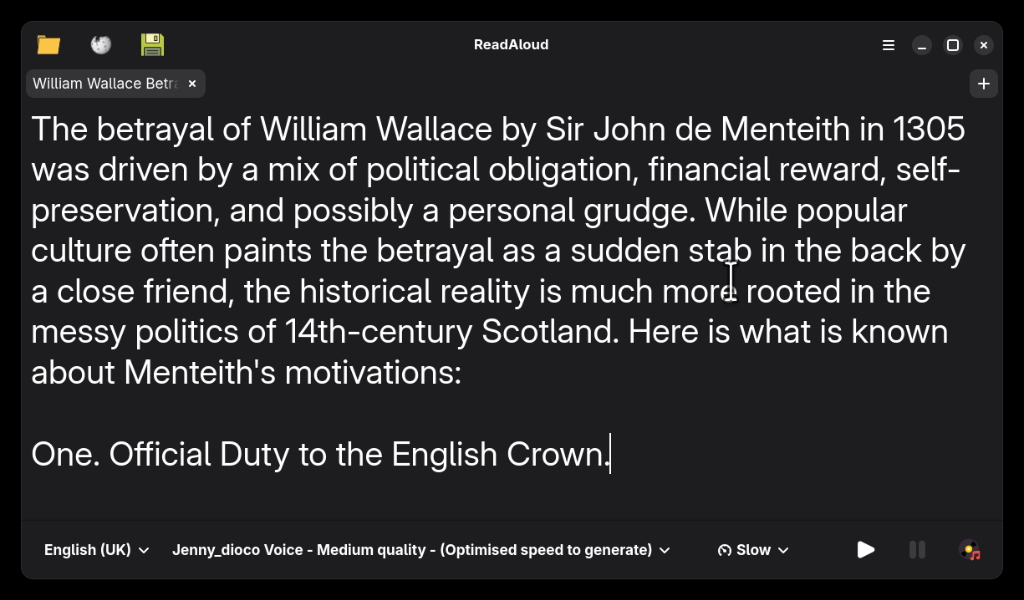
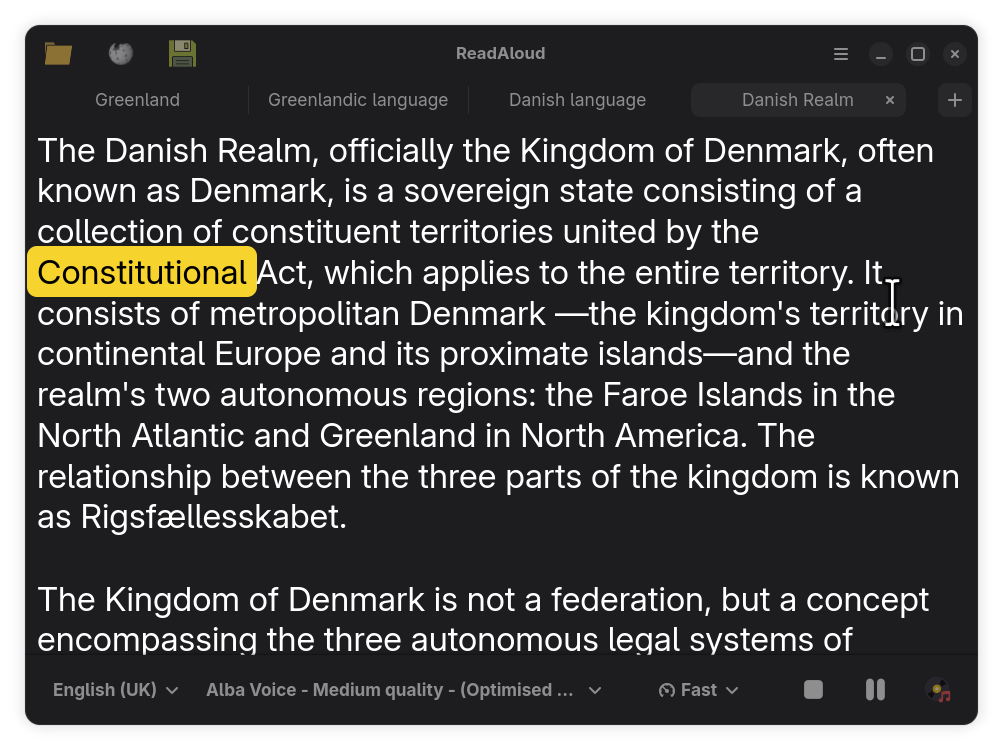
Publish showcase screenshots and detailed changelog walkthrough to repository and README

diff --git a/README.md b/README.md
@@ -33,11 +33,64 @@ ReadAloud is proud to be free and open-source software, licensed under the GNU G
 
 ---
 
-## 📸 Screenshots
+## 📸 Screenshots & Feature Walkthrough
 
+### 1. Document Importer & Dropzone
 <p align="center">
-  <img src="data/screenshots/screenshot.png" alt="ReadAloud Screenshot" width="800"/>
+  <img src="data/screenshots/01-drag-drop-importer.png" alt="Drag and Drop Document Importer" width="700"/>
 </p>
+
+- **Multi-Format Document Dropzone**: Seamlessly drag and drop `.txt`, `.md`, `.pdf`, or `.epub` files directly into ReadAloud to import them into working tabs.
+- **Smart Book Chapter Extraction**: Automatically breaks EPUB and multi-chapter documents into distinct, navigable tabs.
+- **Syntax & Symbol Cleansing**: Automatically strips distracting brackets, pipes, markdown hashes, and asterisks so the Piper neural speech engine reads pure, natural language.
+- **Adaptive Window Controls**: Features standardized `:minimize,maximize,close` window controls and dedicated headerbar buttons for instant one-click actions across all desktop environments.
+
+---
+
+### 2. Direct Wikipedia Article Importer
+<p align="center">
+  <img src="data/screenshots/02-wikipedia-import-dialog.png" alt="Wikipedia Article Importer Dialog" width="700"/>
+</p>
+
+- **One-Click Quick Access**: Open the Wikipedia Importer instantly from the headerbar globe button or the Tools menu (`win.import-wikipedia`).
+- **Topic or URL Import**: Enter any article topic or paste full Wikipedia URLs—ReadAloud scrapes and cleans the content locally for offline listening.
+- **Multi-Tab Related Article Extraction**: Automatically discovers internal related `/wiki/...` reference links and imports up to 10 related topics into separate sequential tabs.
+- **Wikimedia Foundation Support**: Features a non-intrusive donation callout card encouraging direct support for free, open global knowledge.
+
+---
+
+### 3. Live Autocomplete Search with Instant Previews
+<p align="center">
+  <img src="data/screenshots/03-wikipedia-live-search.png" alt="Live Autocomplete Wikipedia Search" width="700"/>
+</p>
+
+- **Official REST API Autocomplete**: Real-time debounced search backed by Wikipedia's official REST Search API, returning exact matches as you type.
+- **Rich Visual Cards**: Displays article thumbnail previews, bold headings, and descriptive captions matching Wikipedia's website design.
+- **In-Memory Thumbnail Caching**: Thread-safe in-memory image caching eliminates redundant network requests and ensures instant, flicker-free re-querying.
+- **Keyboard-First Navigation**: Smoothly navigate down into suggestion cards with `Down Arrow`, hit `Enter` to import, or press `Escape` to dismiss.
+
+---
+
+### 4. Non-Blocking Asynchronous Fetching HUD
+<p align="center">
+  <img src="data/screenshots/04-wikipedia-fetching-progress.png" alt="Asynchronous Wikipedia Fetching HUD" width="700"/>
+</p>
+
+- **Real-Time Step Updates**: Translucent progress modal providing live status updates (e.g. `Fetching related article (3/4): 'Danish language'...`).
+- **Threaded Worker Processing**: All network fetching and HTML/markdown parsing run on background worker threads, keeping the application UI fluid and responsive.
+- **Instant Safe Cancellation**: Cancel multi-article scraping at any moment without freezing the interface or discarding previously loaded tabs.
+
+---
+
+### 5. Synchronized Speech Playback & Word Highlighting
+<p align="center">
+  <img src="data/screenshots/05-active-playback-word-highlighting.png" alt="Active Speech Playback and Real-Time Word Highlighting" width="700"/>
+</p>
+
+- **Synchronized Real-Time Word Highlighting**: High-contrast, dynamic highlighting tracks every spoken word in real-time and auto-scrolls to keep active text in view.
+- **Intelligent Sentence Segmentation**: Smooths PDF multi-column line breaks and joins hyphenated words, while guarding abbreviations (`Dr.`, `Mr.`, `e.g.`) and numerical values from premature pauses.
+- **Automatic Paragraph Gap Separation**: Enforces clean `\n\n` empty line gaps between paragraphs, providing generous vertical separation that makes long articles effortless to follow during audio synthesis.
+- **Complete Audio Control Deck**: Seamlessly switch voices (e.g. `Alba Voice - Medium quality`), adjust calibrated speech speeds (`Normal`, `Fast`, `Super Fast`), or export spoken-word audio to compressed MP3, OGG, FLAC, or uncompressed WAV.
 
 ---
 
